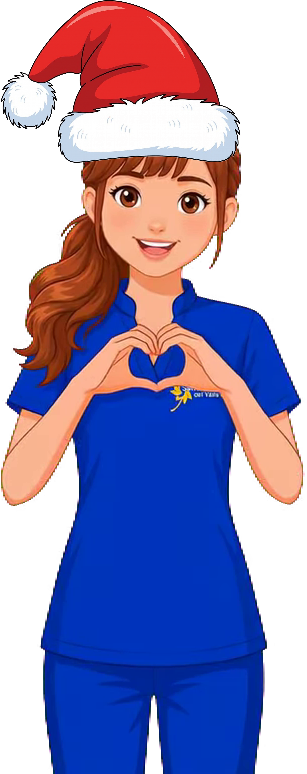
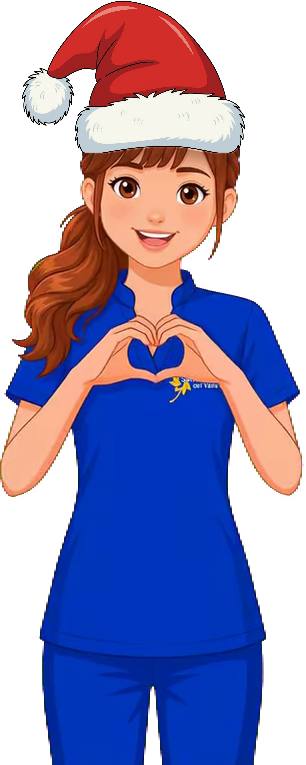
Vacunatón: gorro integrado (centrado, ala curvada, sombra y color armonizado)
Claude-Session: https://claude.ai/code/session_01KgBCaN2Nb7mn6jAyyriR7q

diff --git a/entregas/creativo-instagram/2026-11-26-vacunaton-navidena/fuente/gorro-montaje.py b/entregas/creativo-instagram/2026-11-26-vacunaton-navidena/fuente/gorro-montaje.py
@@ -1,0 +1,32 @@
+import sys, numpy as np, cv2
+from PIL import Image, ImageFilter, ImageChops, ImageEnhance
+hel=Image.open(sys.argv[1]).convert('RGBA'); hat=Image.open(sys.argv[2]).convert('RGBA')
+cx,cy,ancho,giro,curva=map(float,sys.argv[4:9])
+PAD=220; S=720
+# 1) curvar el gorro: los extremos del ala bajan (se "envuelve" en la cabeza)
+h=np.array(hat).astype(np.float32); hh,hw=h.shape[:2]
+mx,my=np.meshgrid(np.arange(hw),np.arange(hh))
+t=(mx-hw*0.62)/(hw*0.38)                       # 0 en el centro del ala, ±1 en sus extremos
+dy=curva*np.clip(t,-1.6,1.2)**2*np.clip((my/hh-0.45)/0.55,0,1)
+h=cv2.remap(h,mx.astype(np.float32),(my-dy).astype(np.float32),cv2.INTER_LINEAR,borderValue=(0,0,0,0))
+hat=Image.fromarray(np.clip(h,0,255).astype('uint8'),'RGBA')
+# 2) armonizar color con la ilustración (un poco menos saturado y blanco más cálido)
+rgb=hat.convert('RGB'); rgb=ImageEnhance.Color(rgb).enhance(0.9); rgb=ImageEnhance.Brightness(rgb).enhance(0.97)
+r,g,b=rgb.split(); b=b.point(lambda v:int(v*0.96)); rgb=Image.merge('RGB',(r,g,b)); rgb.putalpha(hat.split()[-1]); hat=rgb
+# 3) colocar
+ax0,ax1,ay=0.245*hw,0.995*hw,0.80*hh
+k=ancho/(ax1-ax0); a=np.deg2rad(giro)
+R=np.array([[np.cos(a),-np.sin(a)],[np.sin(a),np.cos(a)]])*k
+T=np.array([cx,cy+PAD])-R@np.array([(ax0+ax1)/2,ay])
+M=np.hstack([R,T[:,None]]).astype(np.float32)
+lay=cv2.warpAffine(np.array(hat).astype(np.float32),M,(S,S+PAD),flags=cv2.INTER_LANCZOS4,borderValue=(0,0,0,0))
+lay=Image.fromarray(np.clip(lay,0,255).astype('uint8'),'RGBA')
+can=Image.new('RGBA',(S,S+PAD),(0,0,0,0)); can.alpha_composite(hel,(0,PAD))
+# 4) sombra del ala sobre el pelo y la frente (solo dentro de Helenita)
+ha=lay.split()[-1]
+sh=ha.transform(ha.size,Image.AFFINE,(1,0,0,0,1,-9)).filter(ImageFilter.GaussianBlur(7))
+sh=ImageChops.subtract(sh,ha.filter(ImageFilter.MaxFilter(3)))
+sh=ImageChops.multiply(sh,can.split()[-1]).point(lambda v:int(v*0.42))
+dark=Image.new('RGBA',can.size,(60,25,15,0)); dark.putalpha(sh); can.alpha_composite(dark)
+can.alpha_composite(lay)
+bb=can.split()[-1].getbbox(); can.crop(bb).save(sys.argv[3]); print(can.crop(bb).size)

diff --git a/entregas/creativo-instagram/2026-11-26-vacunaton-navidena/LEAME.md b/entregas/creativo-instagram/2026-11-26-vacunaton-navidena/LEAME.md
@@ -16,3 +16,4 @@ Encargo directo del Agente Copies Redes con texto aprobado por Nicolas
   (corazón + gorro de la web) con el gorro más arriba que en el archivo del Agente Helenita.
 - Pantalla 2: sello «GRATIS para toda la familia» abajo a la izquierda. Pantallas 3 y recordatorio: tarjeta
   «Lleve: carné de vacunación · documento de identidad» con íconos.
+- Gorro (versión final del montaje): centrado en la cabeza, ala curvada que baja a los lados, sombra suave sobre el flequillo y color armonizado. Script: `fuente/gorro-montaje.py` (parámetros 368 77 168 0 18).
